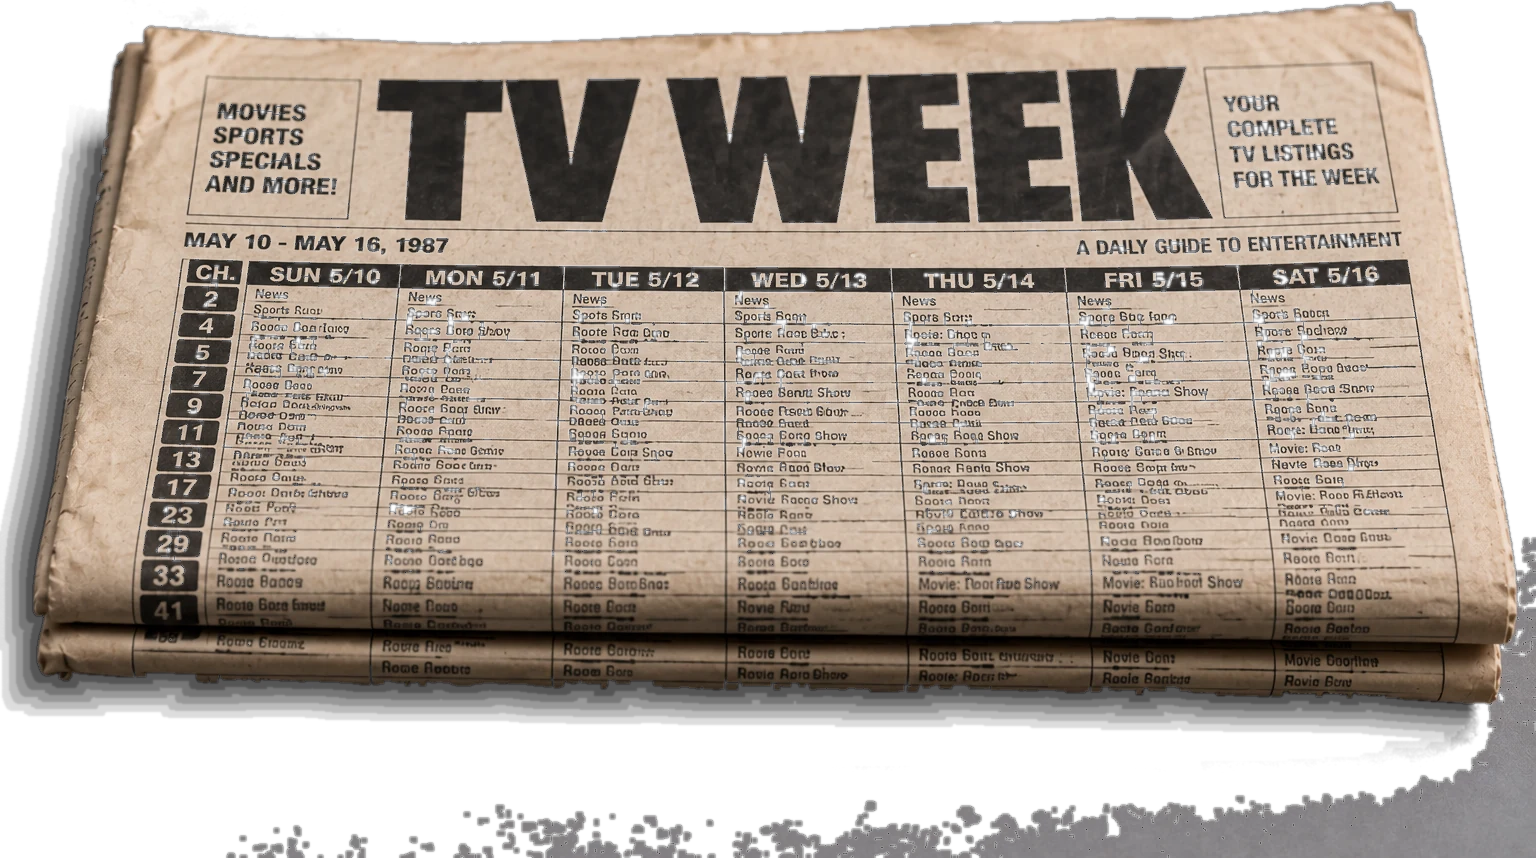
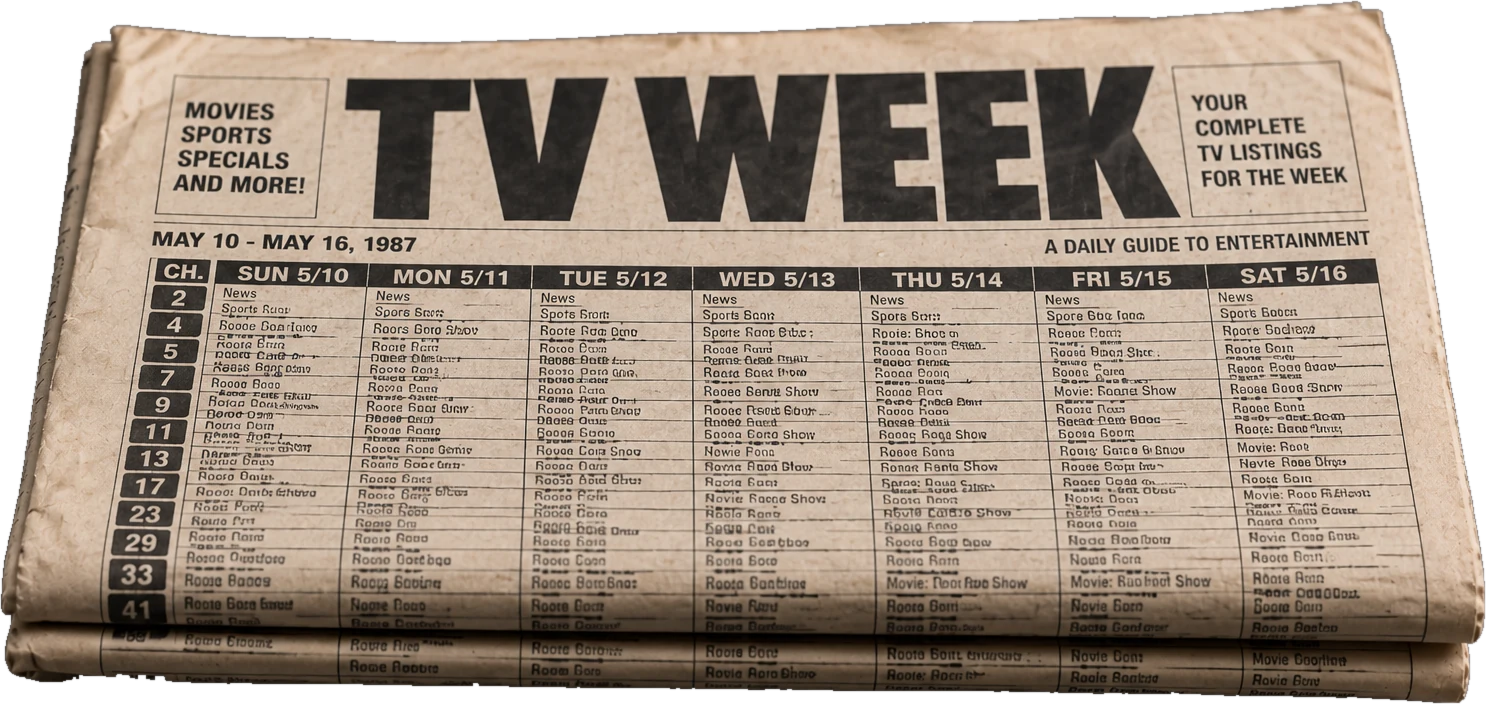
CableBox: deploy e223d74

diff --git a/cablebox/js/scramble.js b/cablebox/js/scramble.js
@@ -17,9 +17,30 @@
   const FORMS = ['Emmanuelle in {c}', 'Emmanuelle Goes to {c}', 'Emmanuelle: {c} Nights', 'Emmanuelle IV: Escape to {c}', 'Emmanuelle in {c}, Part II',
     'Emmanuelle: The {c} Affair', 'Emmanuelle Takes {c}', 'Emmanuelle: One Night in {c}'];
 
+  // The other half of the premium schedule: "[Adjective] [Profession] Pillow Fight: Part 43" (Chris).
+  const ADJ = ['Silly', 'Sultry', 'Naughty', 'Bashful', 'Tipsy', 'Sleepy', 'Moody', 'Nervous', 'Bossy', 'Cranky', 'Clumsy', 'Giggly',
+    'Frisky', 'Grumpy', 'Dizzy', 'Sassy', 'Sneaky', 'Sweaty', 'Restless', 'Chatty', 'Lonely', 'Reckless', 'Curious', 'Barefoot',
+    'Overworked', 'Suburban', 'Married', 'Divorced', 'Part-Time', 'Unlicensed', 'Undercover', 'Rowdy', 'Steamy', 'Shameless', 'Blushing', 'Wicked'];
+  const PROF = ['Optometrist', 'Dental Hygienist', 'Notary', 'Actuary', 'Podiatrist', 'Tax Preparer', 'County Assessor', 'Claims Adjuster',
+    'Orthodontist', 'Chiropractor', 'Loan Officer', 'Meter Reader', 'Pharmacist', 'Court Stenographer', 'Librarian', 'Forklift Instructor',
+    'Substitute Teacher', 'Bank Teller', 'Travel Agent', 'Realtor', 'Crossing Guard', 'Wedding Planner', 'Flight Attendant', 'Paralegal',
+    'Beautician', 'Data Entry Clerk', 'Physical Therapist', 'Insurance Agent', 'Auditor', 'Shift Supervisor', 'Toll Collector', 'Weather Girl',
+    'Piano Teacher', 'Lifeguard', 'Aerobics Instructor', 'Receptionist', 'Nurse', 'Secretary', 'Stewardess', 'Cheerleader', 'Babysitter', 'Coed'];
+  const FIGHT = ['Pillow Fight', 'Tickle Fight'];
+  function fight(i) {   // deterministic: same title for the same index, everywhere
+    const a = ADJ[(i * 7) % ADJ.length], p = PROF[(i * 11 + 3) % PROF.length], f = FIGHT[(i * 5 + (i >> 3)) % FIGHT.length], n = 2 + ((i * 37 + 13) % 98);
+    return a + ' ' + p + ' ' + f + ': Part ' + n;
+  }
+
   // A deterministic pool of feature-length "movies" for the scheduler. Same list for everyone, forever.
+  // Half Emmanuelle, half pillow fights, interleaved.
   function pool() {
-    return CITIES.map((c, i) => ({ id: 'scr-' + i, t: FORMS[(i * 5) % FORMS.length].replace('{c}', c), d: 5040 + ((i * 7919) % 1560), s: '' }));
+    const out = [];
+    CITIES.forEach((c, i) => {
+      out.push({ id: 'scr-' + i, t: FORMS[(i * 5) % FORMS.length].replace('{c}', c), d: 5040 + ((i * 7919) % 1560), s: '' });
+      out.push({ id: 'scf-' + i, t: fight(i), d: 4200 + ((i * 6311) % 2100), s: '' });
+    });
+    return out;
   }
 
   function init(c) {

diff --git a/cablebox/js/app.js b/cablebox/js/app.js
@@ -16,8 +16,8 @@
   // ---------------- data ----------------
   async function loadData() {
     const [c, k] = await Promise.all([
-      fetch('data/channels.json?v=c357df0').then(r => r.json()),
-      fetch('data/catalog.json?v=c357df0').then(r => r.json())
+      fetch('data/channels.json?v=e223d74').then(r => r.json()),
+      fetch('data/catalog.json?v=e223d74').then(r => r.json())
     ]);
     channels = c.channels; catalog = k; lineup = c;
     catalog.pools.scrambled = Scramble.pool();           // channel 69's schedule exists only in the browser
@@ -409,7 +409,7 @@
     const under = $('#paperUnder');
     if (under) {   // the paper's top edge is tucked 60px under the handset; its masthead (12% down the sheet) lands just below the edge
       const width = under.getBoundingClientRect().width || vw * 0.94, sheet = width / 1.5;
-      under.style.height = (Math.max(46, gap) + 60) + 'px'; under.style.backgroundPositionY = Math.round(66 - sheet * 0.12) + 'px';
+      under.style.height = (Math.max(46, gap) + 60) + 'px'; under.style.backgroundPositionY = Math.round(66 - sheet * 0.09) + 'px';
     }
     return true;
   }

diff --git a/cablebox/style.css b/cablebox/style.css
@@ -135,9 +135,9 @@ body {
 /* ---------------- Cable box (photograph + our LED digits + hit targets) ---------------- */
 .cablebox { position: relative; width: 44cqw; height: 10.918cqw; margin-left: 6cqw; margin-right: auto; margin-bottom: -2.2cqw; z-index: 2; }
 .paper { /* this week's TV section, lying on the console to the right of the box (assets/paper-console.webp, keyed from Chris's render) */
-  position: absolute; left: 61cqw; top: 1.6cqw; width: 24cqw; z-index: 3; transform: rotate(-2.5deg); transform-origin: 50% 100%; text-decoration: none;
+  position: absolute; left: 63cqw; top: 2.2cqw; width: 18cqw; z-index: 3; transform: rotate(-2.5deg); transform-origin: 50% 100%; text-decoration: none;
 }
-.paper img { display: block; width: 100%; height: auto; filter: drop-shadow(0 .5cqw .7cqw rgba(0,0,0,.45)); }
+.paper img { display: block; width: 100%; height: auto; filter: drop-shadow(0 .35cqw .5cqw rgba(0,0,0,.55)) drop-shadow(0 .05cqw .1cqw rgba(0,0,0,.6)); }
 .paper:hover { transform: rotate(-2.2deg) translateY(-.15cqw); }
 .paper:focus-visible { outline: .2cqw solid #ffd86a; }
 .paper-under { display: none; }

diff --git a/cablebox/index.html b/cablebox/index.html
@@ -16,7 +16,7 @@
 <link rel="preconnect" href="https://fonts.googleapis.com">
 <link rel="preconnect" href="https://fonts.gstatic.com" crossorigin>
 <link href="https://fonts.googleapis.com/css2?family=Cinzel:wght@600&family=Dancing+Script:wght@600&family=VT323&family=Poppins:wght@600;700&display=swap" rel="stylesheet">
-<link rel="stylesheet" href="style.css?v=c357df0">
+<link rel="stylesheet" href="style.css?v=e223d74">
 </head>
 <body>
 <div class="room">
@@ -96,10 +96,10 @@
     <div class="hint" id="hint">Turn the VOL/ON knob. Type a channel on the box, or use the keys. Guide is channel 1.</div>
   </div>
 </div>
-<script src="js/schedule.js?v=c357df0"></script>
-<script src="js/player.js?v=c357df0"></script>
-<script src="js/scramble.js?v=c357df0"></script>
-<script src="js/marquee.js?v=c357df0"></script>
-<script src="js/app.js?v=c357df0"></script>
+<script src="js/schedule.js?v=e223d74"></script>
+<script src="js/player.js?v=e223d74"></script>
+<script src="js/scramble.js?v=e223d74"></script>
+<script src="js/marquee.js?v=e223d74"></script>
+<script src="js/app.js?v=e223d74"></script>
 </body>
 </html>

diff --git a/cablebox/tvweek.html b/cablebox/tvweek.html
@@ -84,8 +84,8 @@
     <div class="foot"><span><a href="index.html" style="color:inherit">← Back to the set</a> &nbsp; (L) Live &nbsp; ★ Ratings are the listing service's opinion and are not open to appeal. &nbsp; Premium channels require a descrambler.</span><span>Schedules subject to change without notice, and they will.</span></div>
   </div>
 </div></div>
-<script src="js/schedule.js?v=c357df0"></script>
-<script src="js/scramble.js?v=c357df0"></script>
+<script src="js/schedule.js?v=e223d74"></script>
+<script src="js/scramble.js?v=e223d74"></script>
 <script>
 (async () => {
   const cfg = await fetch('data/channels.json?v=' + Date.now()).then(r => r.json());
